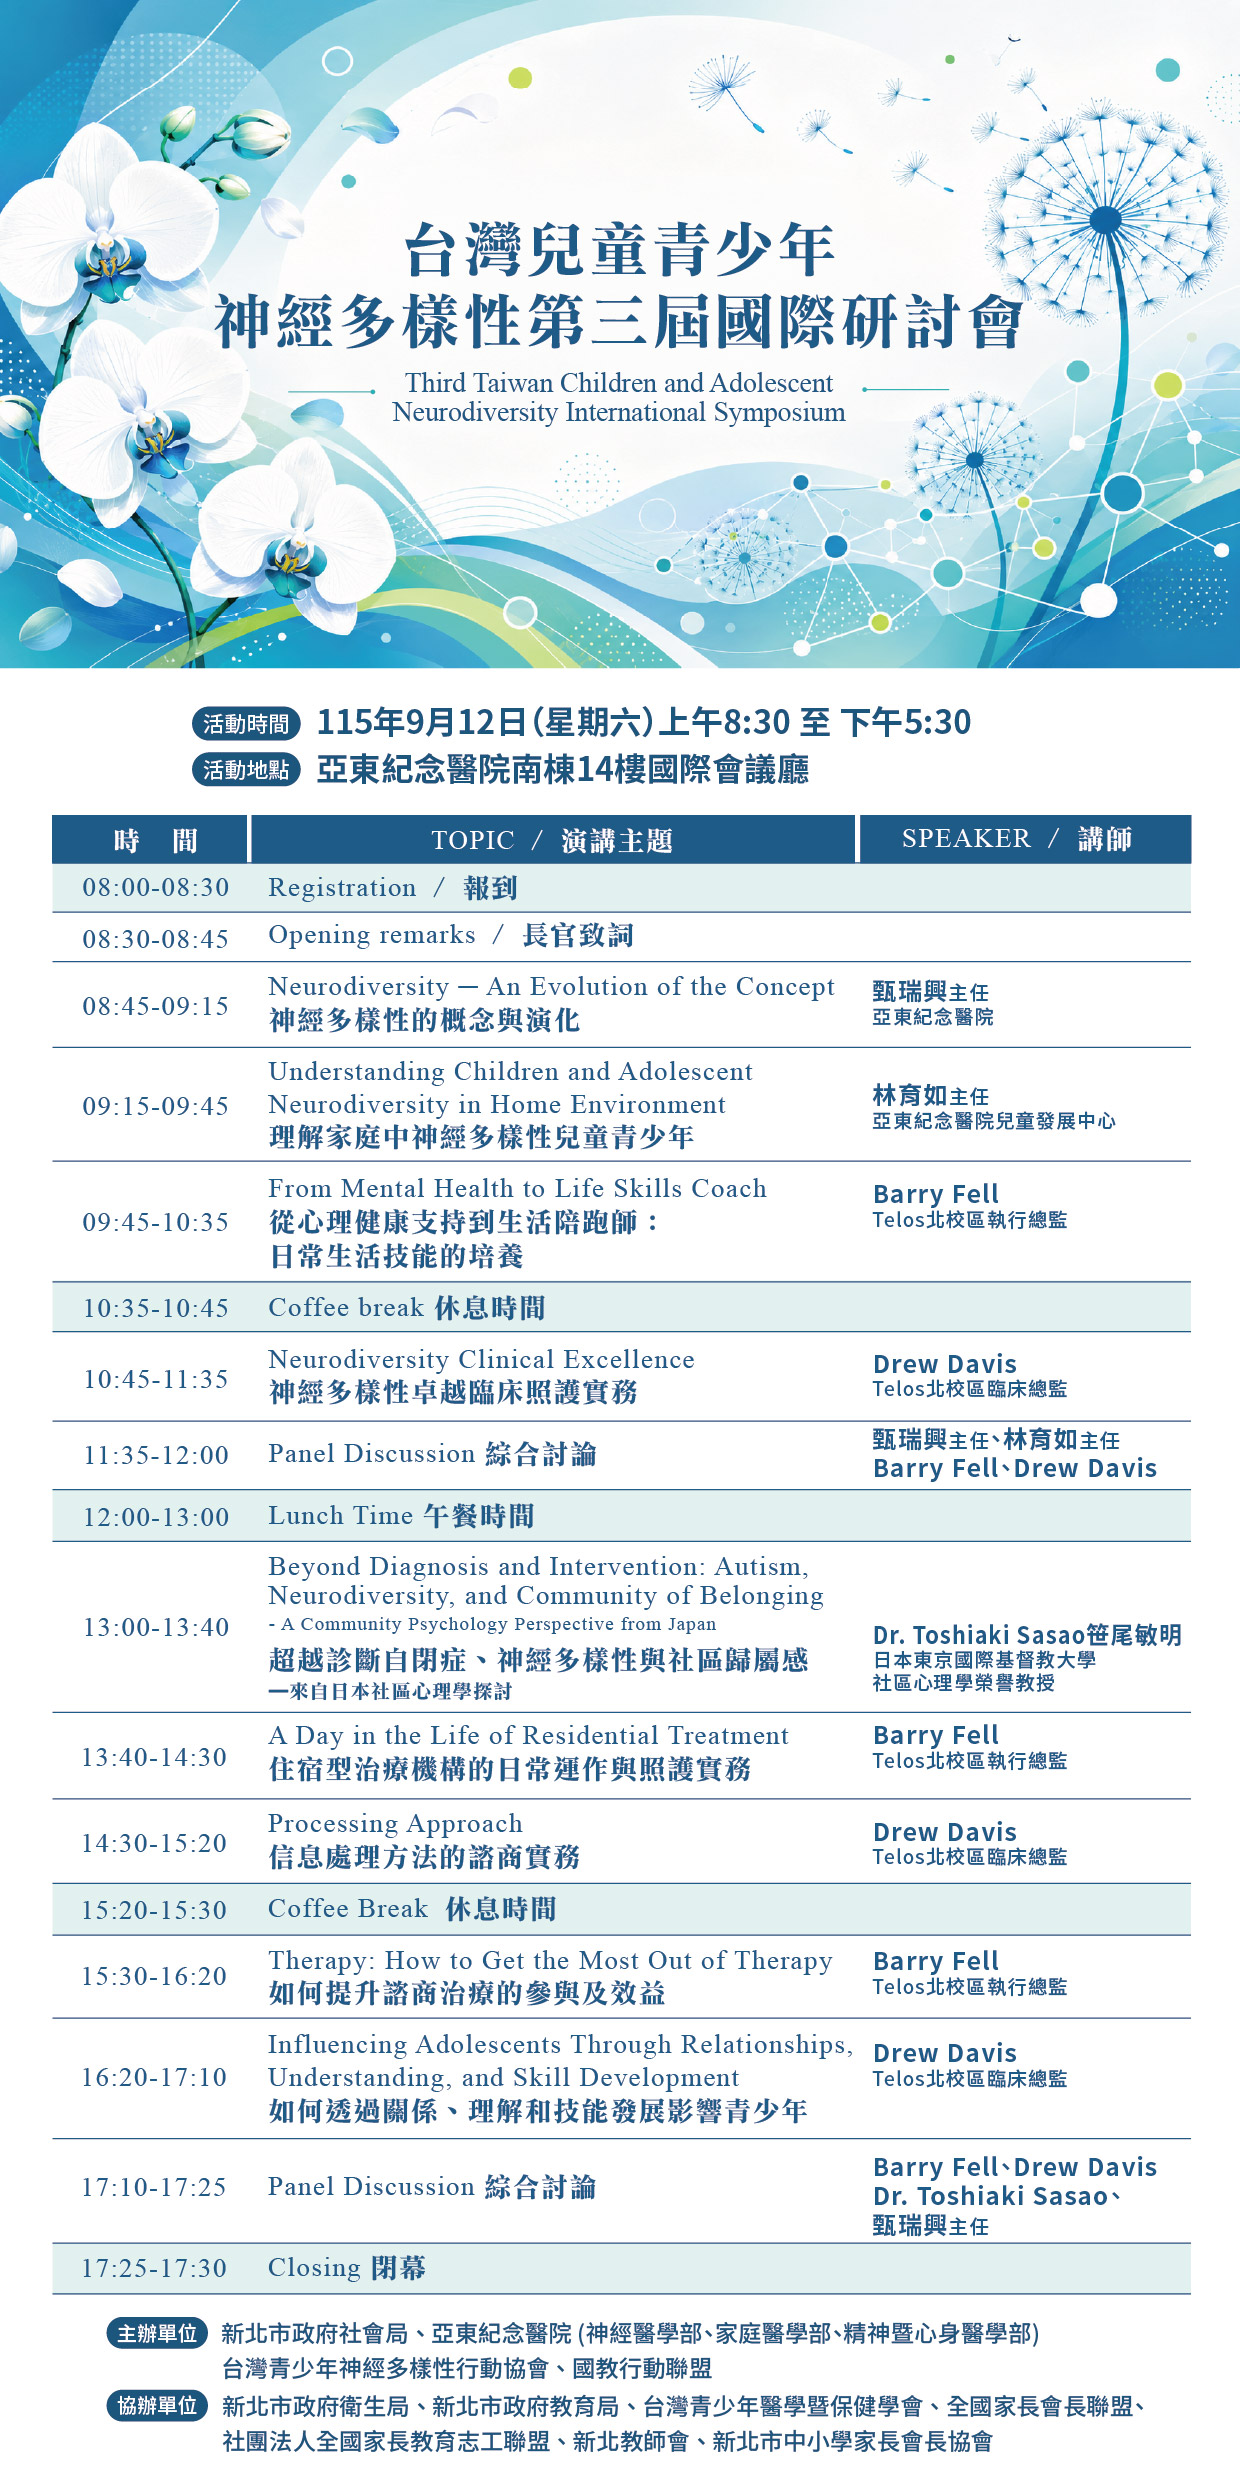
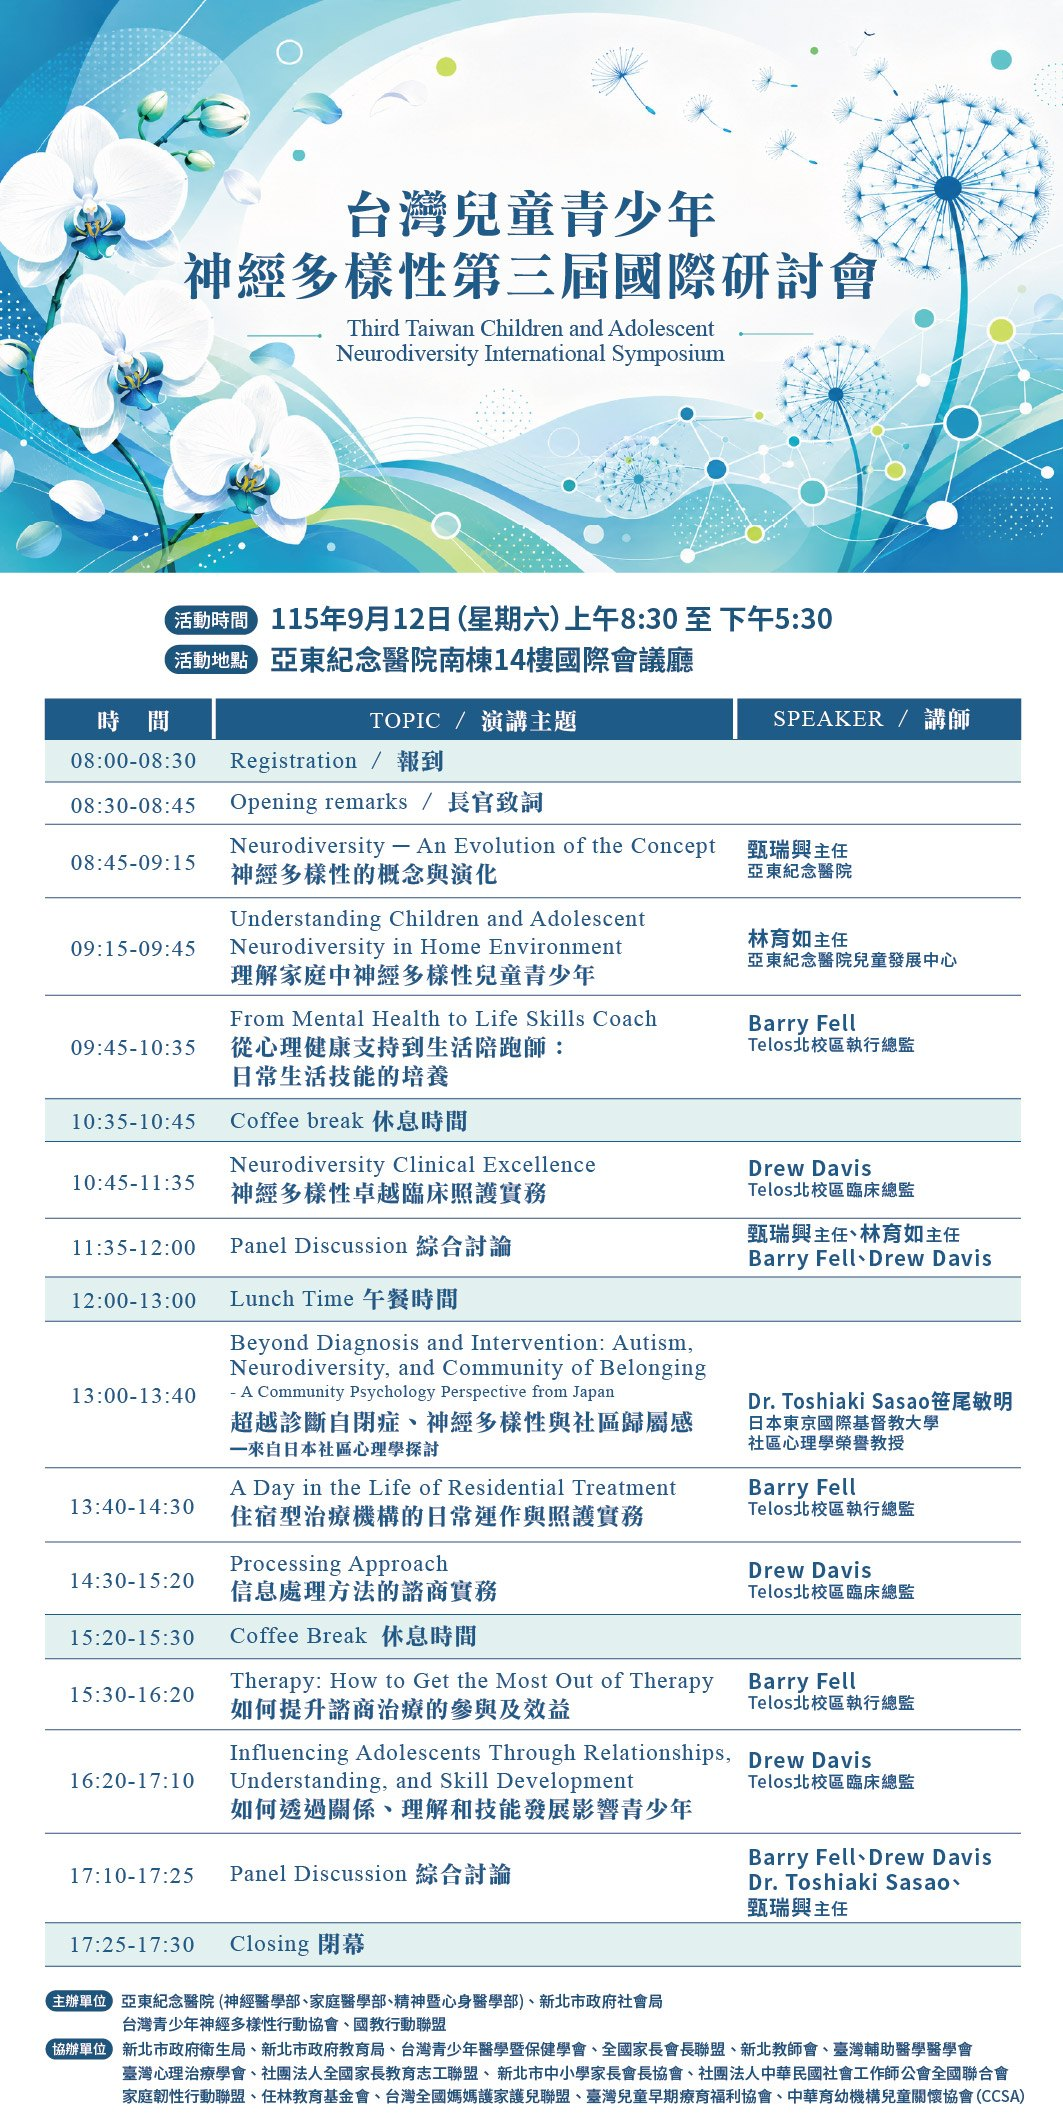
events(9/12研討會): 議程表換 0813 新版（蘭花蒲公英主視覺）；S7 講題英文與主辦單位順序對齊海報；議程版本註記更新

diff --git a/public/events/2026-09-12-neurodiversity-conference/index.html b/public/events/2026-09-12-neurodiversity-conference/index.html
@@ -56,12 +56,12 @@
   },
   "organizer": [
     {
-      "@type": "GovernmentOrganization",
-      "name": "新北市政府社會局"
-    },
-    {
       "@type": "Hospital",
       "name": "亞東紀念醫院（神經醫學部、家庭醫學部、精神暨心身醫學部）"
+    },
+    {
+      "@type": "GovernmentOrganization",
+      "name": "新北市政府社會局"
     },
     {
       "@type": "NGO",
@@ -712,7 +712,7 @@
     <div class="roles-inner">
       <div class="role-pill">
         <div class="rp-label">主辦單位</div>
-        <div class="rp-value">新北市政府社會局<br>亞東紀念醫院（神經醫學部、家庭醫學部、精神暨心身醫學部）<br>台灣青少年神經多樣性行動協會<br><span class="aabe-mark">國教行動聯盟</span></div>
+        <div class="rp-value">亞東紀念醫院（神經醫學部、家庭醫學部、精神暨心身醫學部）<br>新北市政府社會局<br>台灣青少年神經多樣性行動協會<br><span class="aabe-mark">國教行動聯盟</span></div>
       </div>
       <div class="role-pill">
         <div class="rp-label">協辦單位（15 個機構）</div>
@@ -999,7 +999,7 @@
         <div class="ag-time">14:30 – 15:20</div>
         <div class="ag-content">
           <span class="session-tag">Session 7 · 專題演講（七）</span>
-          <div class="session-title en">The Telos Processing Approach</div>
+          <div class="session-title en">Processing Approach</div>
           <div style="font-size:0.85rem;color:var(--ink-3);margin-top:6px;">信息處理方法的諮商實務</div>
         </div>
         <div class="ag-people">
@@ -1106,8 +1106,8 @@
 
     <h3 class="sub-head">主辦單位</h3>
     <div class="org-grid">
-      <div class="org-item">新北市政府社會局</div>
       <div class="org-item">亞東紀念醫院（神經醫學部、家庭醫學部、精神暨心身醫學部）</div>
+      <div class="org-item">新北市政府社會局</div>
       <div class="org-item">台灣青少年神經多樣性行動協會</div>
       <div class="org-item aabe">國教行動聯盟</div>
     </div>
@@ -1159,7 +1159,7 @@
         <p style="margin-top:12px;">
           <a href="mailto:Action.A.E0626@gmail.com">Action.A.E0626@gmail.com</a>
         </p>
-        <p style="font-size:0.85rem;color:#7a8089;margin-top:8px;">議程版本：2026-08-10（0810v2）</p>
+        <p style="font-size:0.85rem;color:#7a8089;margin-top:8px;">議程版本：2026-08-13（0813 版議程表）</p>
       </div>
     </div>
   </section>
